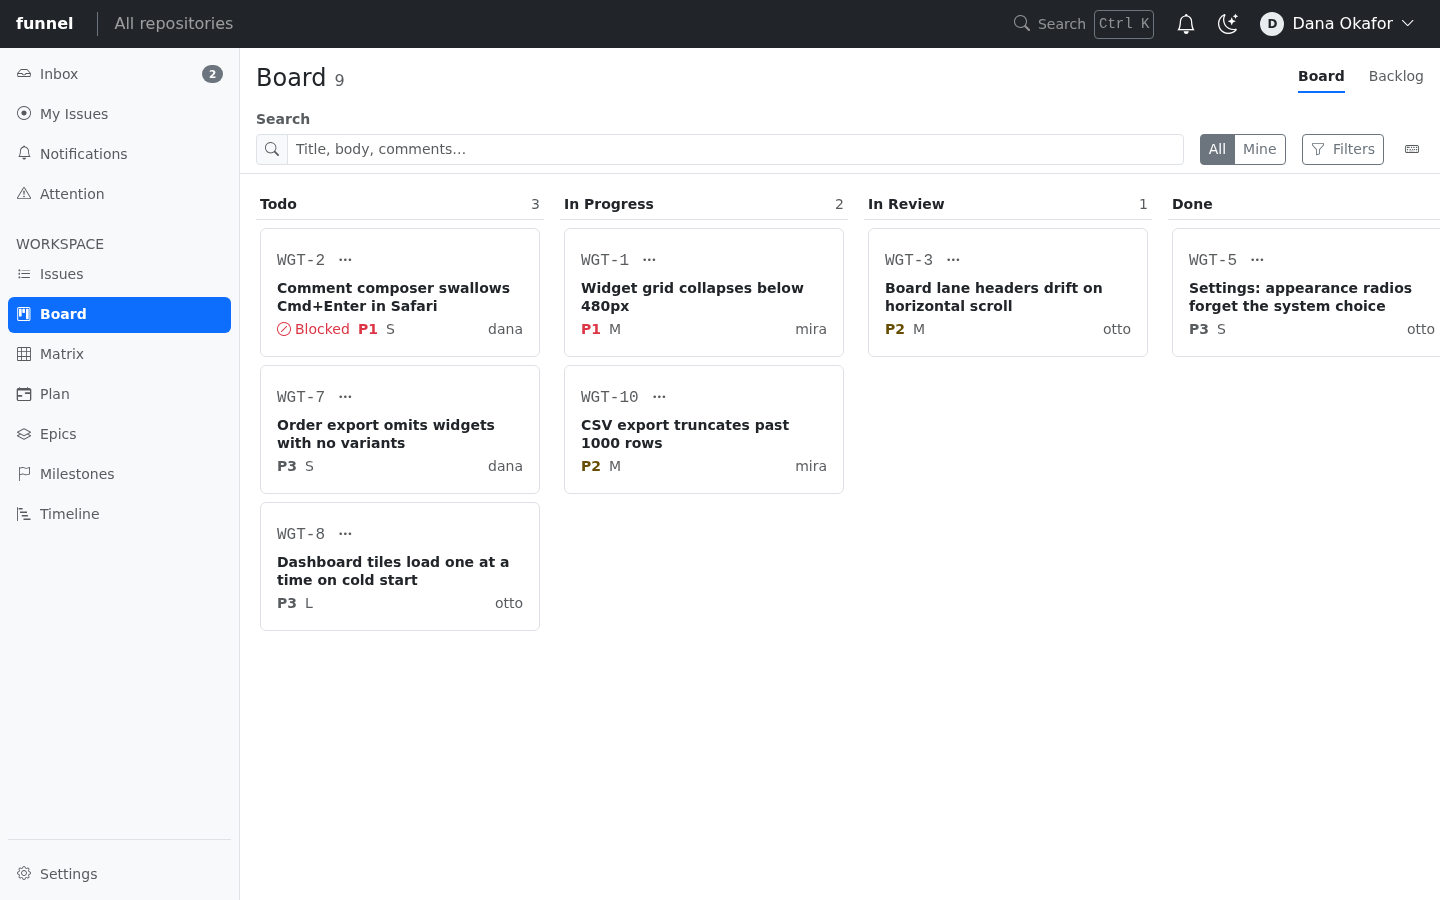
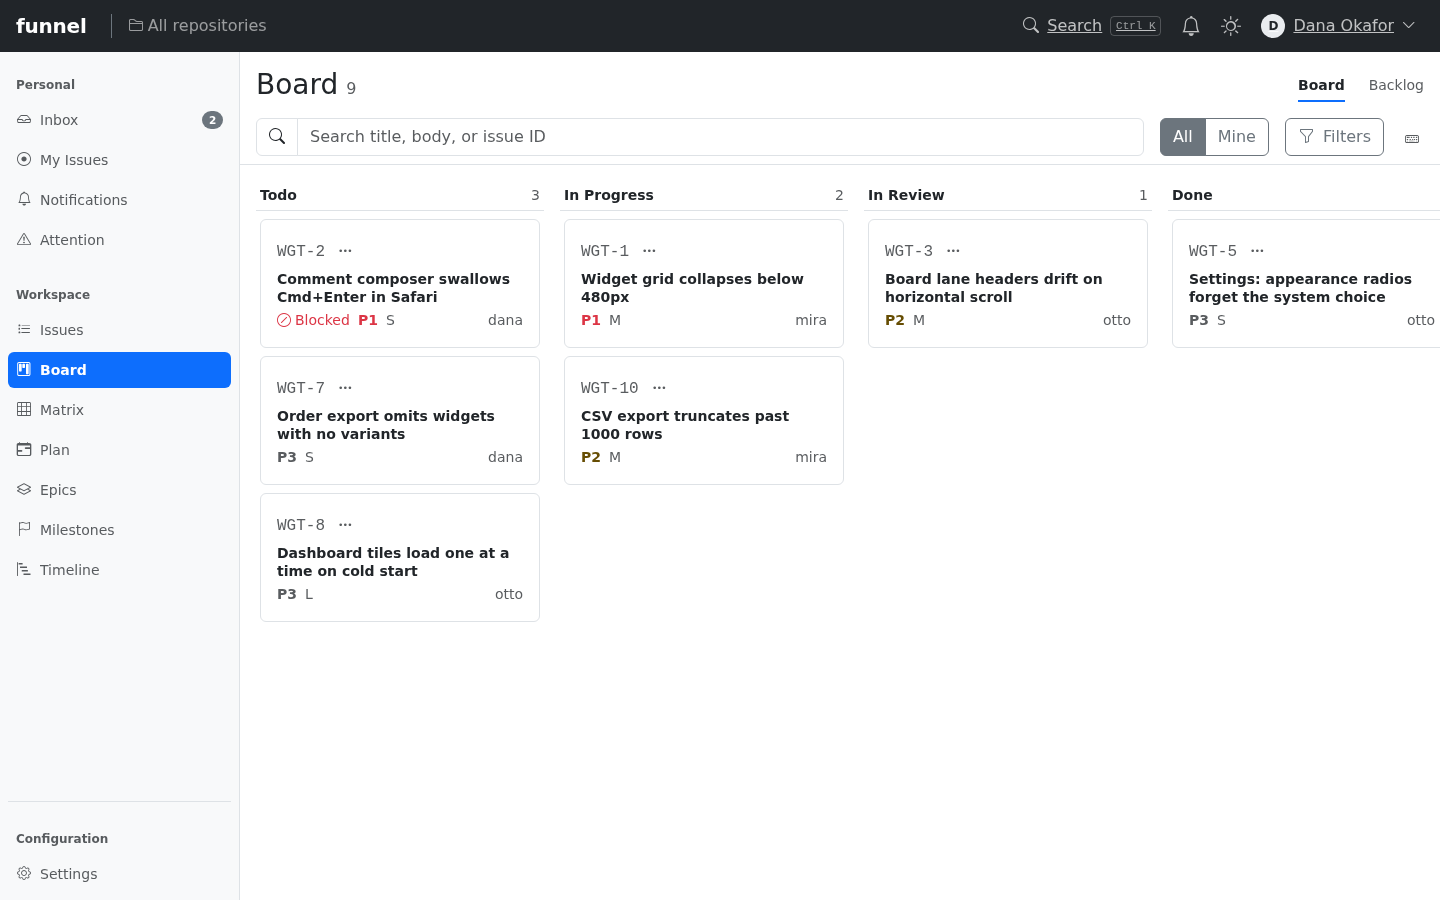
refactor(ui): align shell with Bootstrap PoC and drop uppercase labels
- adopt the PoC's 52px navbar, larger wordmark, quiet controls, and theme menu
- widen the master-detail feed and make inbox search fill the toolbar
- use stock Bootstrap sizing for toolbar search and filters
- replace uppercase sidebar headings with sentence-case groups
- drive theme only through data-bs-theme (no data-theme/.dark dual mode)
- refresh the before/after screenshot gallery

diff --git a/src/lib/components/shell/AppBar.svelte b/src/lib/components/shell/AppBar.svelte
@@ -9,7 +9,7 @@
 		DropdownToggle
 	} from '@sveltestrap/sveltestrap';
 	import Avatar from '#lib/components/common/Avatar.svelte';
-	import { resolvedTheme, setTheme } from '#lib/client/theme';
+	import { resolvedTheme, setTheme, themeChoice, type ThemeChoice } from '#lib/client/theme';
 	import { signOut } from '#lib/client/auth';
 	import type { Role } from '#lib/roles';
 
@@ -31,6 +31,12 @@
 	const dark = $derived($resolvedTheme === 'dark');
 	const shortcut = $derived(isMac ? '⌘ K' : 'Ctrl K');
 
+	const themes: { value: ThemeChoice; label: string; icon: string }[] = [
+		{ value: 'light', label: 'Light', icon: 'bi-sun' },
+		{ value: 'dark', label: 'Dark', icon: 'bi-moon' },
+		{ value: 'system', label: 'Match system', icon: 'bi-circle-half' }
+	];
+
 	async function handleSignOut() {
 		await signOut();
 		await goto('/login');
@@ -44,7 +50,7 @@
 <header class="navbar navbar-expand navbar-dark bg-dark app-bar px-3">
 	<Button
 		color="link"
-		class="d-lg-none p-1 text-white text-decoration-none"
+		class="nav-quiet d-xl-none"
 		aria-label={navOpen ? 'Close navigation' : 'Open navigation'}
 		aria-expanded={navOpen}
 		onclick={onmenu}
@@ -55,27 +61,25 @@
 	<a href="/" class="navbar-brand mb-0 text-decoration-none" translate="no">funnel</a>
 
 	<span class="navbar-text d-none d-sm-inline border-start border-secondary ps-3 ms-2 py-0">
-		All repositories
+		<i class="bi bi-folder2 me-1" aria-hidden="true"></i>All repositories
 	</span>
 
 	<div class="ms-auto d-flex align-items-center gap-1">
 		<Button
 			color="link"
-			class="text-white-50 text-decoration-none d-flex align-items-center gap-2 px-2"
+			class="nav-quiet d-flex align-items-center gap-2"
 			aria-label="Search issues"
 			onclick={onsearch}
 		>
 			<i class="bi bi-search" aria-hidden="true"></i>
-			<span class="d-none d-md-inline small">Search</span>
-			<kbd class="d-none d-md-inline bg-transparent border border-secondary text-white-50 px-1 fw-normal"
-				>{shortcut}</kbd
-			>
+			<span class="d-none d-md-inline">Search</span>
+			<kbd class="nav-kbd d-none d-lg-inline">{shortcut}</kbd>
 		</Button>
 
 		<Button
 			color="link"
 			href="/notifications"
-			class="text-white text-decoration-none position-relative px-2"
+			class="nav-quiet position-relative"
 			aria-label={unread > 0 ? `Notifications, ${unread} unread` : 'Notifications'}
 		>
 			<i class="bi bi-bell fs-5" aria-hidden="true"></i>
@@ -89,25 +93,36 @@
 			{/if}
 		</Button>
 
-		<Button
-			color="link"
-			class="text-white text-decoration-none px-2"
-			aria-label={dark ? 'Switch to light theme' : 'Switch to dark theme'}
-			title={dark ? 'Switch to light theme' : 'Switch to dark theme'}
-			onclick={() => setTheme(dark ? 'light' : 'dark')}
-		>
-			<i class="bi {dark ? 'bi-sun' : 'bi-moon-stars'} fs-5" aria-hidden="true"></i>
-		</Button>
+		<Dropdown>
+			<DropdownToggle color="link" caret={false} class="nav-quiet" aria-label="Theme" title="Theme">
+				<i class="bi {dark ? 'bi-moon' : 'bi-sun'} fs-5" aria-hidden="true"></i>
+			</DropdownToggle>
+			<DropdownMenu end>
+				<DropdownItem header>Theme</DropdownItem>
+				{#each themes as theme (theme.value)}
+					<DropdownItem
+						class="d-flex align-items-center gap-2"
+						on:click={() => setTheme(theme.value)}
+					>
+						<i class="bi {theme.icon}" aria-hidden="true"></i>
+						<span>{theme.label}</span>
+						{#if $themeChoice === theme.value}
+							<i class="bi bi-check2 ms-auto" aria-hidden="true"></i>
+						{/if}
+					</DropdownItem>
+				{/each}
+			</DropdownMenu>
+		</Dropdown>
 
 		<Dropdown>
 			<DropdownToggle
 				color="link"
 				caret={false}
-				class="text-white text-decoration-none d-flex align-items-center gap-2 px-2"
+				class="nav-quiet d-flex align-items-center gap-2"
 				aria-label="Account menu"
 			>
 				<Avatar login={user.name} avatarUrl={user.image} size={24} />
-				<span class="d-none d-md-inline text-truncate" style="max-width: 8rem">{user.name}</span>
+				<span class="d-none d-lg-inline text-truncate" style="max-width: 10rem">{user.name}</span>
 				<i class="bi bi-chevron-down small" aria-hidden="true"></i>
 			</DropdownToggle>
 			<DropdownMenu end>
@@ -116,15 +131,21 @@
 					<span class="d-block text-truncate small text-body-secondary">{user.email}</span>
 				</DropdownItem>
 				<DropdownItem divider />
-				<DropdownItem on:click={() => openSettings('/settings')}>
-					<i class="bi bi-person me-2" aria-hidden="true"></i>Account
+				<DropdownItem class="d-flex align-items-center gap-2" on:click={() => openSettings('/settings')}>
+					<i class="bi bi-person" aria-hidden="true"></i>Account
 				</DropdownItem>
-				<DropdownItem on:click={() => openSettings('/settings/appearance')}>
-					<i class="bi bi-gear me-2" aria-hidden="true"></i>Settings
+				<DropdownItem
+					class="d-flex align-items-center gap-2"
+					on:click={() => openSettings('/settings/appearance')}
+				>
+					<i class="bi bi-gear" aria-hidden="true"></i>Settings
 				</DropdownItem>
 				<DropdownItem divider />
-				<DropdownItem class="text-danger" on:click={() => void handleSignOut()}>
-					<i class="bi bi-box-arrow-right me-2" aria-hidden="true"></i>Sign Out
+				<DropdownItem
+					class="d-flex align-items-center gap-2 text-danger"
+					on:click={() => void handleSignOut()}
+				>
+					<i class="bi bi-box-arrow-right" aria-hidden="true"></i>Sign Out
 				</DropdownItem>
 			</DropdownMenu>
 		</Dropdown>

diff --git a/src/lib/styles/app.css b/src/lib/styles/app.css
@@ -12,9 +12,9 @@
  */
 
 :root {
-  --funnel-appbar-height: 3rem;
+  --funnel-appbar-height: 3.25rem;
   --funnel-sidebar-width: 15rem;
-  --funnel-feed-width: 26rem;
+  --funnel-feed-width: clamp(22.5rem, 36vw, 28.75rem);
   --funnel-inspector-width: 48rem;
   --funnel-settings-nav-width: 12.5rem;
   --funnel-settings-max: 50rem;
@@ -59,8 +59,40 @@ body {
 
 .app-bar .navbar-brand {
   color: #fff;
-  font-size: 1rem;
+  font-size: 1.25rem;
   font-weight: 600;
+  letter-spacing: -0.01em;
+}
+
+/* Quiet controls on the dark global bar, matching Bootstrap's nav-link tone. */
+.nav-quiet {
+  padding: 0.375rem 0.5rem;
+  color: rgb(255 255 255 / 0.72);
+  border: 0;
+  line-height: 1.5;
+}
+
+.nav-quiet:hover,
+.nav-quiet:focus {
+  color: #fff;
+  background: rgb(255 255 255 / 0.08);
+}
+
+.nav-quiet:focus-visible {
+  outline: 2px solid rgb(255 255 255 / 0.65);
+  outline-offset: 1px;
+  box-shadow: none;
+}
+
+.nav-kbd {
+  padding: 0.05rem 0.3rem;
+  border: 1px solid rgb(255 255 255 / 0.22);
+  border-radius: 0.25rem;
+  background: transparent;
+  color: rgb(255 255 255 / 0.55);
+  font-family: var(--bs-font-monospace);
+  font-size: 0.6875rem;
+  font-weight: 400;
 }
 
 .app-shell {
@@ -113,6 +145,15 @@ body {
   min-height: 0;
   flex: 1 1 auto;
   overflow-y: auto;
+}
+
+/* Sentence-case group headings, a quiet label rather than a scream. */
+.sidebar-heading {
+  padding: 0.25rem 0.5rem;
+  margin: 0.75rem 0 0.25rem;
+  color: var(--bs-secondary-color);
+  font-size: 0.75rem;
+  font-weight: 600;
 }
 
 /* Sidebar navigation: Bootstrap pills with compact vertical rhythm. */

diff --git a/src/lib/client/theme.ts b/src/lib/client/theme.ts
@@ -6,8 +6,8 @@
  * `localStorage` under `funnel:theme`, keeps a `system` choice in sync with
  * the OS, and updates the browser theme-color to the active canvas.
  *
- * `data-theme` and `.dark` remain in sync for ECharts and other non-Bootstrap
- * consumers, but Bootstrap components read `data-bs-theme`.
+ * Bootstrap components and every application-facing CSS variable read
+ * `data-bs-theme`; there is no second theme attribute.
  */
 import { get, writable } from "svelte/store";
 
@@ -38,10 +38,8 @@ function resolve(choice: ThemeChoice): ResolvedTheme {
 function apply(theme: ResolvedTheme): void {
   if (!isBrowser()) return;
   const root = document.documentElement;
-  root.setAttribute("data-theme", theme);
   root.setAttribute("data-bs-theme", theme);
   root.style.colorScheme = theme;
-  root.classList.toggle("dark", theme === "dark");
 
   // Read the active Bootstrap canvas rather than hard-coding a value.
   const canvas = getComputedStyle(root).getPropertyValue("--bs-body-bg").trim();

diff --git a/src/lib/components/filter/FeedSearch.svelte b/src/lib/components/filter/FeedSearch.svelte
@@ -52,20 +52,18 @@
 	}
 </script>
 
-<div class="d-flex min-w-0 flex-column gap-1 {className}">
-	<label for="issue-search" class="form-label small fw-semibold text-body-secondary mb-0"
-		>Search</label
-	>
-	<div class="input-group input-group-sm">
-		<span class="input-group-text text-body-secondary">
+<div class="d-flex min-w-0 flex-grow-1 {className}">
+	<label class="visually-hidden" for="issue-search">Search</label>
+	<div class="input-group">
+		<span class="input-group-text bg-body">
 			<i class="bi bi-search" aria-hidden="true"></i>
 		</span>
 		<input
 			bind:this={input}
 			id="issue-search"
 			type="search"
-			class="form-control form-control-sm"
-			placeholder="Title, body, comments…"
+			class="form-control"
+			placeholder="Search title, body, or issue ID"
 			value={search}
 			oninput={(event) => onInput(event.currentTarget.value)}
 			onfocus={() => (focused = true)}

diff --git a/src/lib/components/shell/SidebarNav.svelte b/src/lib/components/shell/SidebarNav.svelte
@@ -55,6 +55,7 @@
 </script>
 
 <nav class="h-100 d-flex flex-column p-2" aria-label="Primary">
+	<div class="sidebar-heading">Personal</div>
 	<Nav vertical pills class="app-nav flex-column gap-1">
 		{#each personal as item (item.href)}
 			<NavItem>
@@ -76,7 +77,7 @@
 		{/each}
 	</Nav>
 
-	<h2 class="h6 text-uppercase text-body-secondary px-2 mt-4 mb-1 small">Workspace</h2>
+	<div class="sidebar-heading mt-4">Workspace</div>
 	<Nav vertical pills class="app-nav flex-column gap-1">
 		{#each workspace as item (item.href)}
 			<NavItem>
@@ -94,6 +95,7 @@
 	</Nav>
 
 	<div class="mt-auto pt-3 border-top">
+		<div class="sidebar-heading mt-2">Configuration</div>
 		<Nav vertical pills class="app-nav flex-column">
 			<NavItem>
 				<NavLink

diff --git a/src/app.html b/src/app.html
@@ -1,5 +1,5 @@
 <!doctype html>
-<html lang="en" data-theme="light" data-bs-theme="light">
+<html lang="en" data-bs-theme="light">
 	<head>
 		<meta charset="utf-8" />
 		<meta name="viewport" content="width=device-width, initial-scale=1" />
@@ -32,10 +32,8 @@
 						? "dark"
 						: "light";
 				}
-				root.setAttribute("data-theme", theme);
 				root.setAttribute("data-bs-theme", theme);
 				root.style.colorScheme = theme;
-				root.classList.toggle("dark", theme === "dark");
 				var meta = document.querySelector('meta[name="theme-color"]');
 				if (meta) meta.setAttribute("content", theme === "dark" ? "#212529" : "#ffffff");
 			})();

diff --git a/src/lib/components/common/SegmentedControl.svelte b/src/lib/components/common/SegmentedControl.svelte
@@ -21,11 +21,10 @@
 	let { items, label }: Props = $props();
 </script>
 
-<ButtonGroup size="sm" role="group" aria-label={label}>
+<ButtonGroup role="group" aria-label={label}>
 	{#each items as item (item.label)}
 		<Button
 			color="outline-secondary"
-			size="sm"
 			href={item.href}
 			active={item.active}
 			aria-current={item.active ? 'page' : undefined}

diff --git a/src/lib/components/shell/PageHeader.svelte b/src/lib/components/shell/PageHeader.svelte
@@ -24,7 +24,7 @@
 		<div class="d-flex flex-wrap align-items-baseline gap-2">
 			<svelte:element
 				this={level === 1 ? 'h1' : 'h2'}
-				class={level === 1 ? 'h4 mb-0' : 'h5 mb-0'}
+				class={level === 1 ? 'h3 mb-0' : 'h4 mb-0'}
 			>
 				{title}
 			</svelte:element>

diff --git a/src/lib/components/filter/FilterPopover.svelte b/src/lib/components/filter/FilterPopover.svelte
@@ -125,7 +125,7 @@
 	}
 </script>
 
-<Button color="outline-secondary" size="sm" onclick={() => (open = true)}>
+<Button color="outline-secondary" onclick={() => (open = true)}>
 	<i class="bi bi-funnel me-1" aria-hidden="true"></i>
 	Filters
 	{#if count > 0}

diff --git a/src/lib/components/issue/GroupByControl.svelte b/src/lib/components/issue/GroupByControl.svelte
@@ -40,7 +40,6 @@
 	<DropdownToggle
 		color="secondary"
 		outline
-		size="sm"
 		class="d-inline-flex align-items-center gap-2"
 		aria-label={`Group issues by: ${current}`}
 	>

diff --git a/docs/DESIGN.md b/docs/DESIGN.md
@@ -26,13 +26,13 @@ is styled in [`markdown.css`](../src/lib/styles/markdown.css).
 Light and dark themes are driven by **`data-bs-theme`** on `<html>`, which
 Bootstrap 5.3 uses for every component and CSS variable. The pre-paint script
 in `src/app.html` and the theme controller in `src/lib/client/theme.ts` keep
-`data-bs-theme`, `data-theme`, and `color-scheme` in sync. Persistence uses
-`localStorage` under `funnel:theme` (`system`, `dark`, `light`).
+`data-bs-theme` and `color-scheme` in sync. Persistence uses `localStorage`
+under `funnel:theme` (`system`, `dark`, `light`).
 
 Components must consume Bootstrap variables (`--bs-body-color`,
 `--bs-secondary-color`, `--bs-border-color`, `--bs-primary`, `--bs-danger`,
 `--bs-body-bg`, `--bs-tertiary-bg`, …) rather than hard-coded colours or
-`[data-theme]` selectors.
+parallel theme attributes.
 
 ## 3. Components
 
